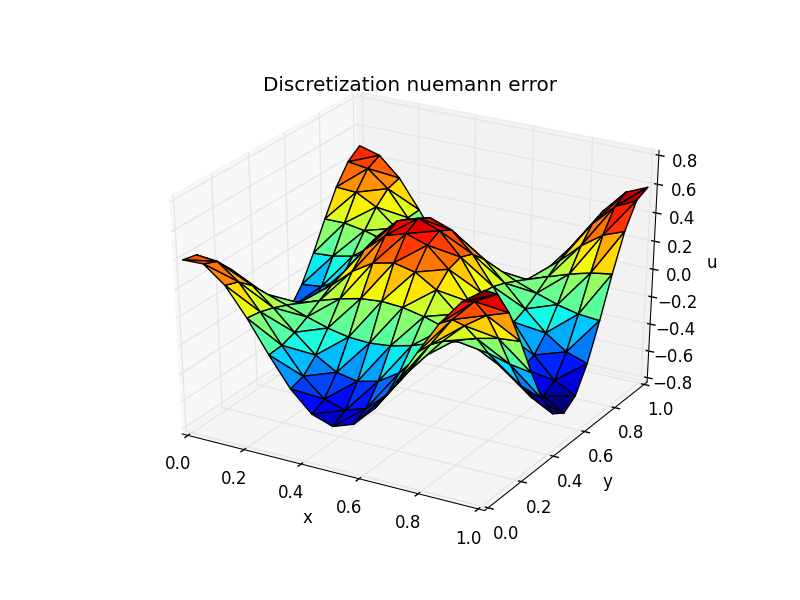
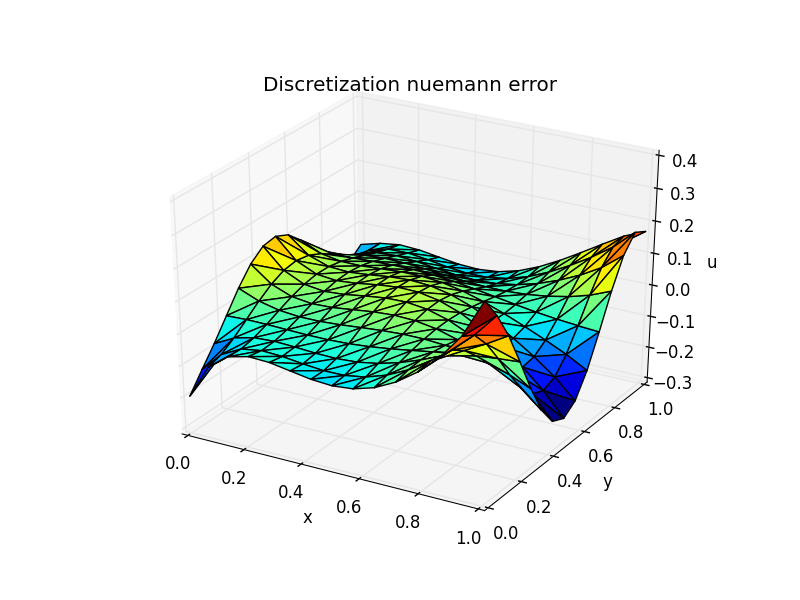
Correction of Series7

Changed region(s): [[0.2188, 0.24, 0.875, 0.72], [0.8438, 0.24, 0.875, 0.27], [0.2188, 0.63, 0.25, 0.66]]

diff --git a/Series_7/FEM.py b/Series_7/FEM.py
@@ -184,7 +184,7 @@ def elemLoad(p,n,f):
   #Finally we obtain the element load vector
   Load=map(lambda i:sum(map(lambda j:wquad[j]*f(xtrans[j][0],xtrans[j][1])
                  *Nshape(i,xref[j][0],xref[j][1])*np.abs(detJ),range(0,n))),range(0,3))
-  return 1./4*np.array(Load).reshape(3,1)
+  return 1./2*np.array(Load).reshape(3,1)
 
 
 # Now we gonna assemble the whole elements to obtain the total stiffenss
